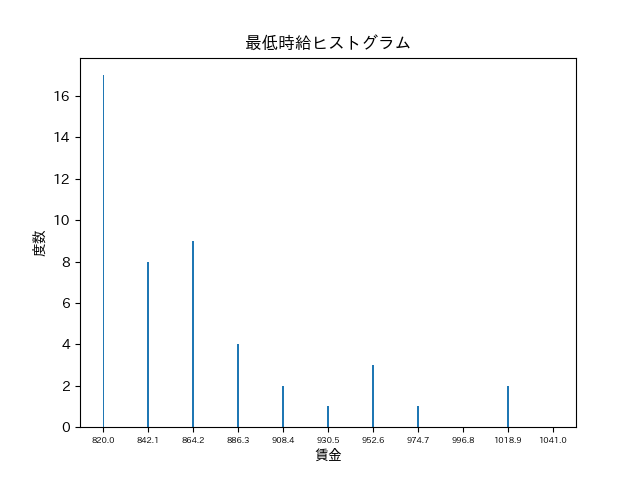
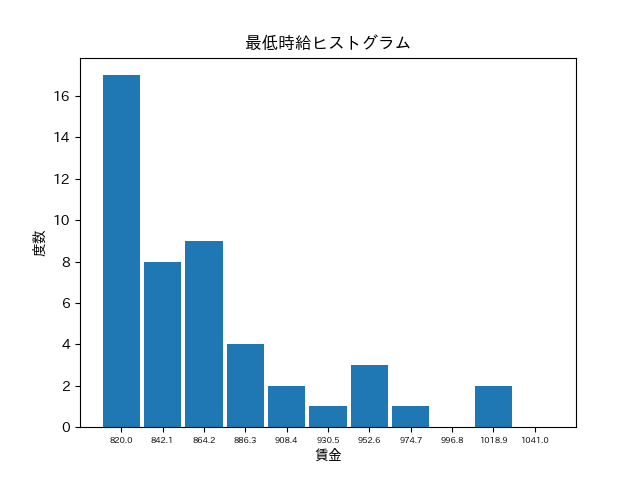
2021/12/22-23:25:49

Changed region(s): [[0.125, 0.1562, 0.6875, 0.9375], [0.6875, 0.7812, 0.875, 0.9375]]

diff --git a/Lesson02/En0205.py b/Lesson02/En0205.py
@@ -1,42 +1,46 @@
-#演習５
+# 演習５
 import numpy as np
 import matplotlib.pyplot as plt
 import japanize_matplotlib
-from numpy.lib.polynomial import polyfit
 
-#最低時給と人口密度
-prefecture=['北海道','青 森','岩 手','宮 城','秋 田','山 形','福 島',
-    '茨 城','栃 木','群 馬','埼 玉','千 葉','東 京','神奈川','新 潟','富 山',
-    '石 川','福 井','山 梨','長 野','岐 阜','静 岡','愛 知','三 重','滋 賀',
-    '京 都','大 阪','兵 庫','奈 良','和歌山','鳥 取','島 根','岡 山','広 島',
-    '山 口','徳 島','香 川','愛 媛','高 知','福 岡','佐 賀','長 崎','熊 本',
-    '大 分','宮 崎','鹿児島','沖 縄'
-]
-h_wage=np.array([
-    889,822,821,853,822,822,828,879,882,865,956,953,1041,1040,
-    859,877,861,858,866,877,880,913,955,902,896,937,992,928,866,859,
-    821,824,862,899,857,824,848,821,820,870,821,821,821,822,821,821,820
+
+# 最低時給と人口密度
+prefecture = ['北海道', '青 森', '岩 手', '宮 城', '秋 田', '山 形', '福 島',
+              '茨 城', '栃 木', '群 馬', '埼 玉', '千 葉', '東 京', '神奈川', '新 潟', '富 山',
+              '石 川', '福 井', '山 梨', '長 野', '岐 阜', '静 岡', '愛 知', '三 重', '滋 賀',
+              '京 都', '大 阪', '兵 庫', '奈 良', '和歌山', '鳥 取', '島 根', '岡 山', '広 島',
+              '山 口', '徳 島', '香 川', '愛 媛', '高 知', '福 岡', '佐 賀', '長 崎', '熊 本',
+              '大 分', '宮 崎', '鹿児島', '沖 縄'
+              ]
+h_wage = np.array([
+    889, 822, 821, 853, 822, 822, 828, 879, 882, 865, 956, 953, 1041, 1040,
+    859, 877, 861, 858, 866, 877, 880, 913, 955, 902, 896, 937, 992, 928, 866, 859,
+    821, 824, 862, 899, 857, 824, 848, 821, 820, 870, 821, 821, 821, 822, 821, 821, 820
 ])
-p_density=np.array([
-    68.6,135.6,83.8,320.5,87.9,120.5,138.9,478.4,308.1,310.1,1913.4,1206.5,
-    6168.7,3777.7,183.1,251,275.7,187.7,187,154.8,191.3,475.8,1446.7,314.5,
-    351.7,566,4639.8,658.8,369.6,203.9,163.5,103.5,270.1,335.4,229.8,182.3,
-    520.2,244.1,102.5,1023.1,341.2,333.3,241.1,183.9,142.7,179.4,628.4
+p_density = np.array([
+    68.6, 135.6, 83.8, 320.5, 87.9, 120.5, 138.9, 478.4, 308.1, 310.1, 1913.4, 1206.5,
+    6168.7, 3777.7, 183.1, 251, 275.7, 187.7, 187, 154.8, 191.3, 475.8, 1446.7, 314.5,
+    351.7, 566, 4639.8, 658.8, 369.6, 203.9, 163.5, 103.5, 270.1, 335.4, 229.8, 182.3,
+    520.2, 244.1, 102.5, 1023.1, 341.2, 333.3, 241.1, 183.9, 142.7, 179.4, 628.4
 ])
 
-#相関係数の計算
-r = np.corrcoef(h_wage,p_density)[0,1]
+# 相関係数の計算
+r = np.corrcoef(h_wage, p_density)[0, 1]
 
-#回帰直線の計算
-x = polyfit(h_wage,p_density,1)
+# 回帰直線の計算
+p, q = np.polyfit(h_wage, p_density, 1)
+a, b, c = np.polyfit(h_wage, p_density, 2)
+# 回帰直線のための座標計算
+x = np.linspace(np.min(h_wage), np.max(h_wage))
+y1 = p * x + q
+y2 = a * x**2 + b * x + c
 
-#回帰直線のための座標計算
+# 散布図
+plt.scatter(h_wage, p_density)
 
-
-#散布図
-
-#回帰直線
-
+# 回帰直線
+plt.plot(x, y1, label="y={:.3f}x+{:.3f}".format(p, q))
+plt.plot(x, y2, label="{:.3f}x**2+{:.3f}x+{:.3f}".format(a, b, c))
 plt.title("最低時給－人口密度の散布図")
 plt.xlabel("最低時給")
 plt.ylabel("人口密度")

diff --git a/Lesson02/En0206.py b/Lesson02/En0206.py
@@ -21,9 +21,9 @@ print(f"時給100％ {np.max(h_wage)}")
 # 度数分布
 hst, border = np.histogram(
     h_wage, bins=10, range=(np.min(h_wage), np.max(h_wage)))
-hst = np.append(hst,0)
+hst = np.append(hst, 0)
 # 棒グラフ表示
-plt.bar(border, hst, tick_label=border)
+plt.bar(border, hst, tick_label=border, width=20)
 # x軸目盛ラベルのフォントサイズを変更する
 plt.xticks(fontsize=6)
 plt.title("最低時給ヒストグラム")
